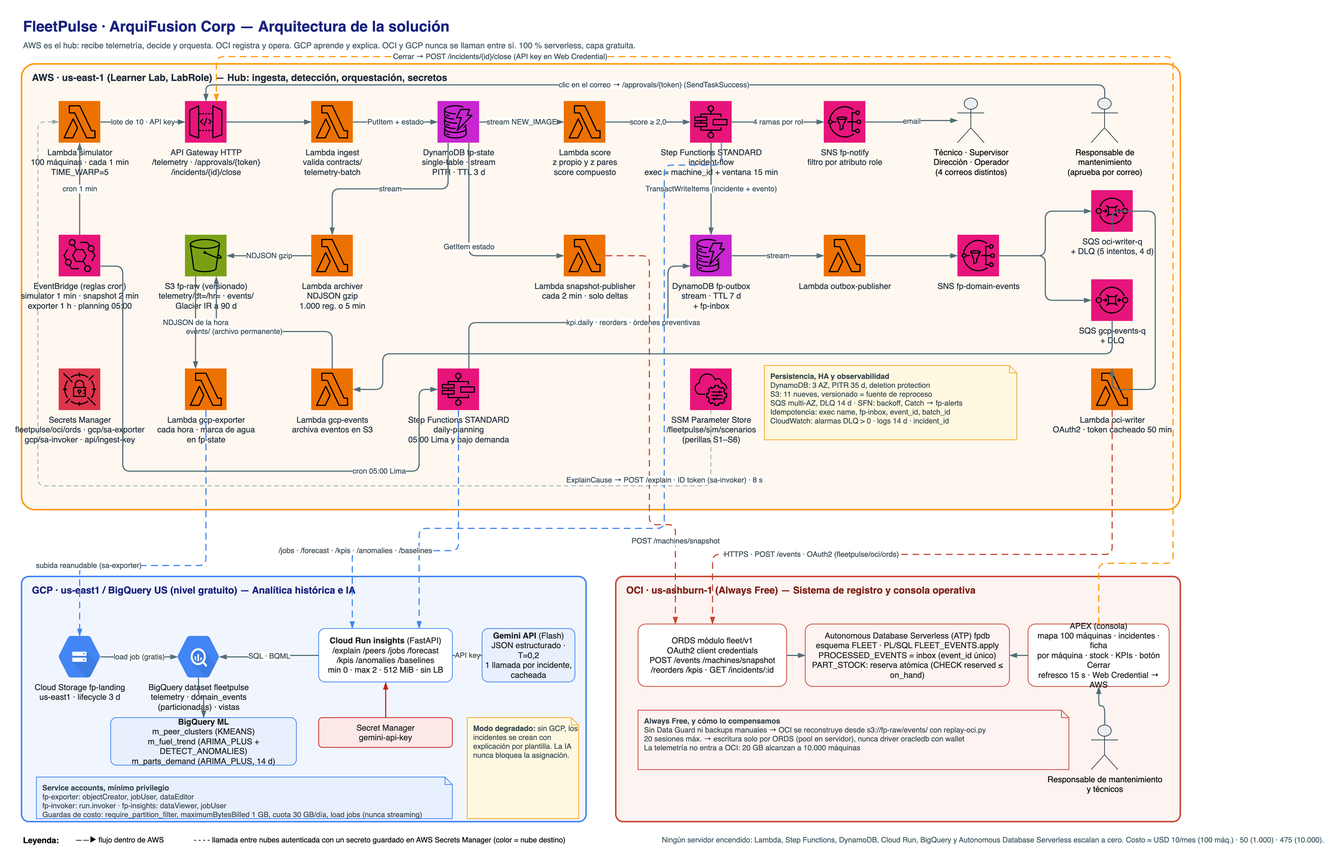
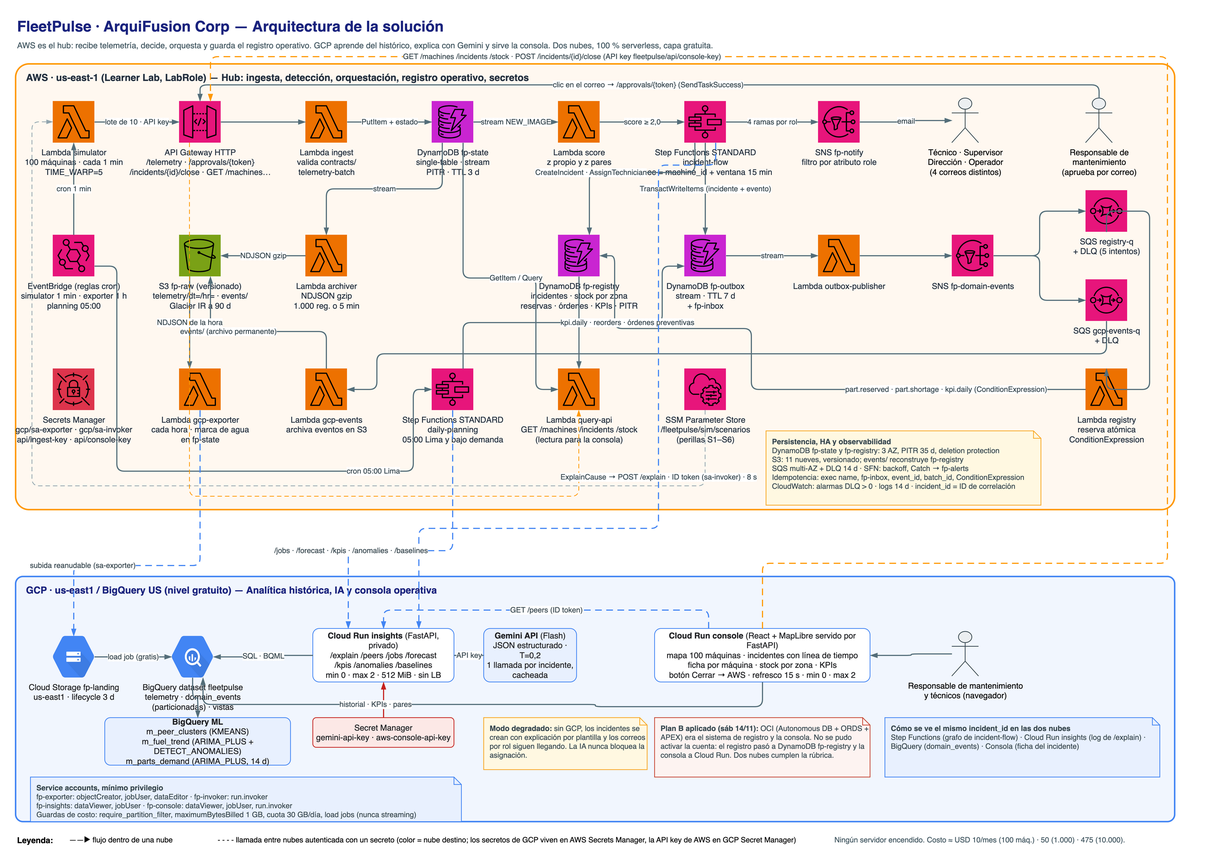
feat: plan B without OCI — registry in DynamoDB, console in Cloud Run
OCI account could not be created (Sat 14/11 21:30). Per the design doc's
plan B: FLEET schema becomes DynamoDB fp-registry (aws/registry, Alex)
with atomic part reservation; APEX becomes Cloud Run console (gcp/console,
React + MapLibre served by FastAPI as BFF). Removes oci/, oci scripts and
secret; updates CODEOWNERS, README, CLAUDE.md, contracts, CI matrix,
architecture diagram and docs.

diff --git a/scripts/seed-registry.py b/scripts/seed-registry.py
@@ -1,0 +1,8 @@
+#!/usr/bin/env python3
+"""Carga contracts/ids.yaml en DynamoDB fp-registry y fp-state (maquinas, tecnicos, repuestos, BOM, stock).
+
+Owner: Alex (T10). Idempotente: PutItem por clave.
+"""
+import sys
+
+sys.exit("TODO T10: implementar seed-registry.py")

diff --git a/docs/architecture.md b/docs/architecture.md
@@ -10,15 +10,16 @@ drawio -x -f png -s 2 -b 20 -o docs/architecture.png docs/architecture.drawio
 
 ## En una frase
 
-AWS es el hub: recibe la telemetría, detecta anomalías y orquesta incidentes. OCI es el sistema de registro (incidentes, repuestos, stock, órdenes) y la consola en APEX. GCP guarda el histórico, entrena los modelos en BigQuery ML y explica cada incidente con Gemini. OCI y GCP nunca se hablan entre sí, así que los secretos viven en un solo lugar (AWS Secrets Manager) y hay un solo camino que vigilar.
+AWS es el hub: recibe la telemetría, detecta anomalías, orquesta incidentes y guarda el registro operativo (incidentes, stock, reservas, órdenes). GCP guarda el histórico, entrena los modelos en BigQuery ML, explica cada incidente con Gemini y sirve la consola operativa. Dos nubes, un solo lugar para los secretos de GCP (AWS Secrets Manager) y un solo camino entre nubes que vigilar.
+
+> **Plan B aplicado el sáb 14/11 21:30.** El diseño original tenía OCI (Autonomous Database + ORDS + APEX) como sistema de registro y consola. Ninguno del equipo pudo crear la cuenta, así que se ejecutó el plan B previsto: el esquema relacional pasó a DynamoDB `fp-registry` y la consola a Cloud Run. Con dos nubes se sigue cumpliendo la rúbrica.
 
 ## Por qué ninguna nube es decorativa
 
 | Nube | Lo que solo ella hace | Si se apaga |
 |---|---|---|
-| AWS | Ve la telemetría en tiempo real y actúa: abre incidentes, asigna técnicos, notifica | Nada entra ni se decide |
-| OCI | Transacciones y joins que DynamoDB maneja mal: stock por ubicación con reservas atómicas, órdenes, BOM, historial máquina–incidente–repuesto; consola del responsable de mantenimiento | Los eventos esperan en SQS (4 días) y se aplican al volver; OCI se reconstruye desde S3 |
-| GCP | Memoria larga: 30 días de historia, clústeres de pares, pronósticos, anomalías de combustible, IA generativa | AWS sigue detectando; los incidentes salen con explicación por plantilla |
+| AWS | Ve la telemetría en tiempo real y actúa: abre incidentes, asigna técnicos, reserva repuestos, notifica. Es el único que cambia el estado de un incidente | Nada entra ni se decide |
+| GCP | Memoria larga: 30 días de historia, clústeres de pares, pronósticos, anomalías de combustible, IA generativa; y la consola que usan el responsable de mantenimiento y los técnicos | AWS sigue detectando y notificando por correo; los incidentes salen con explicación por plantilla y la consola no está disponible |
 
 ## Flujo de eventos
 
@@ -26,13 +27,13 @@ AWS es el hub: recibe la telemetría, detecta anomalías y orquesta incidentes. 
 2. `ingest` valida contra `contracts/telemetry-batch.schema.json`, escribe la lectura y actualiza estado y posición en `fp-state`.
 3. El stream de `fp-state` alimenta a `score` (anomalías) y `archiver` (NDJSON gzip en `s3://fp-raw/telemetry/dt=/hr=/`).
 4. Con score ≥ 2,0, `score` inicia `incident-flow` con nombre `<machine_id>-<ventana 15 min>`: Step Functions rechaza nombres repetidos, así que no hay incidentes duplicados.
-5. `incident-flow` clasifica, correlaciona por zona, crea el incidente y escribe en `fp-outbox` (misma transacción), pide la explicación a Cloud Run `/explain`, rankea técnicos, espera aprobación si corresponde, asigna, notifica por rol y reserva repuestos.
-6. El stream de `fp-outbox` publica en SNS `fp-domain-events` → `oci-writer-q` y `gcp-events-q`, cada una con DLQ.
-7. `oci-writer` envía cada evento a ORDS `POST /events`; `PROCESSED_EVENTS` rechaza `event_id` repetidos.
-8. `snapshot-publisher` (cada 2 min) manda a OCI las máquinas que cambiaron; eso alimenta el mapa de APEX.
-9. `gcp-exporter` (cada hora) sube los NDJSON a `gs://fp-landing/` y lanza un load job a BigQuery. Marca de agua en `fp-state`.
-10. `daily-planning` (05:00 Lima) pide a Cloud Run refrescar modelos, pronosticar repuestos y calcular KPIs; los resultados vuelven por el outbox a OCI.
-11. El correo de aprobación llama a `POST /approvals/{token}` (`SendTaskSuccess`); el botón Cerrar de APEX llama a `POST /incidents/{id}/close`. AWS es el único que cambia el estado de un incidente.
+5. `incident-flow` clasifica, correlaciona por zona, crea el incidente en `fp-registry` y el evento en `fp-outbox` (misma transacción), pide la explicación a Cloud Run `/explain`, rankea técnicos, espera aprobación si corresponde, asigna, notifica por rol y pide la reserva de repuestos.
+6. El stream de `fp-outbox` publica en SNS `fp-domain-events` → `registry-q` y `gcp-events-q`, cada una con DLQ.
+7. La Lambda `registry` aplica los eventos en `fp-registry`: la reserva es un `UpdateItem` con `ConditionExpression on_hand - reserved >= :qty`; si falla prueba la zona más cercana y, si no hay, escribe un pedido sugerido y emite `part.shortage`. `fp-inbox` rechaza `event_id` repetidos.
+8. `gcp-events` archiva cada evento en `s3://fp-raw/events/`; `gcp-exporter` (cada hora) sube los NDJSON a `gs://fp-landing/` y lanza un load job a BigQuery. Marca de agua en `fp-state`.
+9. `daily-planning` (05:00 Lima) pide a Cloud Run refrescar modelos, pronosticar repuestos y calcular KPIs; los resultados vuelven por el outbox a `fp-registry`.
+10. La consola (Cloud Run `console`: React + MapLibre compilado a estáticos y servido por FastAPI) lee el estado en vivo a través de su backend `/api/*`, que llama a la API de lectura de AWS (`GET /machines`, `/incidents`, `/stock`, API key en Secret Manager) y a BigQuery para historial y KPIs; refresca cada 15 s.
+11. El correo de aprobación llama a `POST /approvals/{token}` (`SendTaskSuccess`); el botón Cerrar de la consola llama, vía el backend, a `POST /incidents/{id}/close`. AWS es el único que cambia el estado de un incidente.
 
 ### incident-flow (Standard)
 
@@ -49,7 +50,7 @@ flowchart TD
     G -- inmediato --> I
     H --> I[AssignTechnician<br/>incident.assigned]
     I --> J[NotifyByRole · Parallel SNS<br/>técnico · supervisor · dirección · operador]
-    J --> K[ReserveParts<br/>part.reserve.requested → OCI atómico]
+    J --> K[ReserveParts<br/>part.reserve.requested → fp-registry atómico]
     K --> Z
 ```
 
@@ -60,9 +61,9 @@ flowchart LR
     A[ExportPending<br/>gcp-exporter] --> B[RefreshModels<br/>/jobs/refresh]
     B --> C{WaitForModels<br/>Wait 60 s → /jobs/status<br/>máx. 20 vueltas}
     C -- listos --> D[Analyze · Parallel<br/>preventivo · /forecast/parts<br/>/kpis/daily · /anomalies/fuel]
-    D --> E[ComputeReorders<br/>POST /reorders en OCI]
+    D --> E[ComputeReorders<br/>pronóstico 14 d vs stock en fp-registry]
     E --> F[UpdateBaselines<br/>μ, σ, clúster → fp-state]
-    F --> G[Publish al outbox<br/>maintenance.order.suggested · kpi.daily · fuel.anomaly]
+    F --> G[Publish al outbox → fp-registry y BigQuery<br/>maintenance.order.suggested · kpi.daily · fuel.anomaly]
 ```
 
 Ambas: reintento con backoff exponencial (3 intentos, base 2 s) en cada Lambda, `Catch` global que publica en `fp-alerts`, logs con `includeExecutionData`. Standard y no Express porque Express no soporta `waitForTaskToken` ni guarda el historial visual.
@@ -71,25 +72,25 @@ Ambas: reintento con backoff exponencial (3 intentos, base 2 s) en cada Lambda, 
 
 | Origen → destino | Protocolo | Autenticación | Secreto (Secrets Manager) | Si falla |
 |---|---|---|---|---|
-| AWS → OCI (ORDS) | HTTPS REST JSON | OAuth2 client credentials, token cacheado 50 min | `fleetpulse/oci/ords` | SQS reintenta (visibilidad 60 s); 5 intentos → DLQ; retención 4 días |
 | AWS → Cloud Storage y BigQuery | Subida reanudable + load job | Llave JSON de la SA `fp-exporter` | `fleetpulse/gcp/sa-exporter` | Marca de agua por hora; dedupe por `batch_id` |
 | AWS → Cloud Run | HTTPS | ID token firmado por la SA `fp-invoker` (`roles/run.invoker`) | `fleetpulse/gcp/sa-invoker` | Timeout 8 s → explicación por plantilla; nunca bloquea |
 | Cloud Run → Gemini | HTTPS | API key | GCP Secret Manager `gemini-api-key` | 1 reintento; 429 → plantilla |
 | Cloud Run → BigQuery | Cliente oficial | SA de ejecución `fp-insights` (dataViewer, jobUser) | — | `maximumBytesBilled` 1 GB |
-| Correo / APEX → AWS | HTTPS a API Gateway | Task token de un solo uso / API key en Web Credential | `fleetpulse/api/ingest-key` | Token expira con el paso (30 min) |
+| Consola (Cloud Run, backend) → AWS | HTTPS a API Gateway | API key (`fleetpulse/api/console-key`), copia en GCP Secret Manager `aws-console-api-key`; nunca llega al navegador | `fleetpulse/api/console-key` | La consola muestra el último estado leído y avisa que está desactualizado |
+| Correo → AWS | HTTPS a API Gateway | Task token de un solo uso en la URL | — | Token expira con el paso (30 min) |
 
-Los cuatro secretos se leen en el arranque en frío con caché de 5 minutos. Nunca van en variables de entorno, en el repo ni en los logs. `scripts/push-secrets.sh` los carga desde las salidas de Terraform y del `OAUTH.CREATE_CLIENT` de ORDS.
+Los secretos se leen en el arranque en frío con caché de 5 minutos. Nunca van en variables de entorno, en el repo ni en los logs. `scripts/push-secrets.sh` los carga desde las salidas de Terraform.
 
 ## Modelo de datos: un dueño por dato
 
 | Dato | Dueño | Por qué ahí |
 |---|---|---|
 | Estado actual, últimas lecturas (3 d), scores, incidentes activos, técnicos, baselines, marca de agua | DynamoDB `fp-state` (single-table, GSI1 por zona) | Acceso por clave, stream para reaccionar, multi-AZ |
-| Telemetría cruda y eventos de dominio | S3 `fp-raw` (versionado) | Fuente de verdad para reprocesar hacia OCI o GCP |
-| Incidentes, eventos, órdenes, repuestos, stock, reservas, KPIs | Autonomous Database, esquema `FLEET` | Transacciones (`reserved ≤ on_hand`), joins, APEX |
+| Telemetría cruda y eventos de dominio | S3 `fp-raw` (versionado) | Fuente de verdad para reprocesar hacia `fp-registry` o BigQuery |
+| Incidentes, eventos de incidente, órdenes, repuestos, BOM, stock por zona, reservas, pedidos sugeridos, KPIs | DynamoDB `fp-registry` (single-table, PITR, stream) | Reserva atómica con `ConditionExpression`; lectura por clave para la consola; los joins pesados (historial, KPIs) se hacen en BigQuery |
 | Histórico completo, vistas, modelos | BigQuery `fleetpulse` (particionado por día, clúster por máquina y zona) | Entrena sin mover datos; cargas gratis |
 
-La telemetría nunca entra a OCI: 20 GB de Always Free alcanzan incluso con 10.000 máquinas.
+La telemetría nunca entra a `fp-registry`: el registro guarda decisiones, no lecturas.
 
 ## Buenas prácticas por nube
 
@@ -98,37 +99,28 @@ La telemetría nunca entra a OCI: 20 GB de Always Free alcanzan incluso con 10.0
 | Pilar | Decisiones | Dónde se ve |
 |---|---|---|
 | Excelencia operativa | Todo como código (Serverless Framework, Terraform, SQL versionado). CI con gitleaks, lint, tests, `sls package`, `terraform validate` y validación de contratos JSON Schema. `incident_id` y `batch_id` como ID de correlación en los logs de las 3 nubes. Alarmas por DLQ > 0 y ejecuciones fallidas | `.github/workflows/`, `contracts/`, CloudWatch |
-| Seguridad | Secretos de OCI y GCP en Secrets Manager (cifrados con `aws/secretsmanager`), caché 5 min, nunca en env ni logs. API keys y throttling en API Gateway. Cifrado en reposo en las 3 nubes y TLS en tránsito. Ningún bucket público. Task token de un solo uso para aprobaciones | Secrets Manager, API Gateway |
-| Fiabilidad | Outbox + SNS + SQS + DLQ entre nubes: una caída remota no tumba el flujo. Idempotencia en cada salto: nombre de ejecución, `fp-inbox`, `PROCESSED_EVENTS`, `batch_id`. Timeouts con alternativa (Gemini → plantilla). Reproceso desde S3 (`replay-oci.py`). Modo degradado documentado por nube | `aws/integrations/`, `aws/shared/lib/` |
-| Eficiencia de rendimiento | Ingesta por lotes de 10. Step Functions solo por incidente, no por lectura. Lambda arm64. DynamoDB single-table con GSI por zona y TTL. ORDS agrupa conexiones. BigQuery particionado y en clústeres. Cloud Run con concurrencia 80 | Tablas, `serverless.yml` |
-| Optimización de costos | Todo escala a cero. DynamoDB on-demand, TTL 3 d en lecturas. S3 a Glacier IR a 90 d. Logs 14 d. Niveles gratuitos de OCI y GCP; sin load balancer; load jobs y no streaming; `require_partition_filter`, `maximumBytesBilled`, cuota diaria de 30 GB. Simulador apagado fuera de pruebas | Sección de costos del README |
+| Seguridad | Secretos de GCP y API keys en Secrets Manager (cifrados con `aws/secretsmanager`), caché 5 min, nunca en env ni logs. API keys y throttling en API Gateway. Cifrado en reposo en las dos nubes y TLS en tránsito. Ningún bucket público. Task token de un solo uso para aprobaciones | Secrets Manager, API Gateway |
+| Fiabilidad | Outbox + SNS + SQS + DLQ entre nubes: una caída remota no tumba el flujo. Idempotencia en cada salto: nombre de ejecución, `fp-inbox`, `batch_id`, `ConditionExpression`. Timeouts con alternativa (Gemini → plantilla). `fp-registry` con PITR y reconstruible desde `s3://fp-raw/events/`. Modo degradado documentado por nube | `aws/integrations/`, `aws/registry/`, `aws/shared/lib/` |
+| Eficiencia de rendimiento | Ingesta por lotes de 10. Step Functions solo por incidente, no por lectura. Lambda arm64. DynamoDB single-table con GSI por zona y TTL. BigQuery particionado y en clústeres. Cloud Run con concurrencia 80 | Tablas, `serverless.yml` |
+| Optimización de costos | Todo escala a cero. DynamoDB on-demand, TTL 3 d en lecturas. S3 a Glacier IR a 90 d. Logs 14 d. Nivel gratuito de GCP; sin load balancer; load jobs y no streaming; `require_partition_filter`, `maximumBytesBilled`, cuota diaria de 30 GB. Simulador apagado fuera de pruebas | Sección de costos del README |
 | Sostenibilidad | Solo se procesa lo que cambia (streams, snapshot de deltas). NDJSON comprimido. arm64. Ningún recurso encendido en reposo | Lifecycle de S3, `archiver` |
 
 ### Google Cloud Architecture Framework
 
 | Pilar | Decisiones |
 |---|---|
-| Diseño del sistema | Región única `us-east1` (Cloud Storage gratis), BigQuery multirregión US. Un solo servicio Cloud Run con varios endpoints: menos superficie, menos arranques en frío |
+| Diseño del sistema | Región única `us-east1` (Cloud Storage gratis), BigQuery multirregión US. Dos servicios Cloud Run con responsabilidades separadas: `insights` (IA y analítica, privado) y `console` (React servido por FastAPI, que también es el backend de la UI) |
 | Excelencia operativa | Terraform para APIs, bucket, dataset, tablas, SAs, Secret Manager, Artifact Registry (política de 2 imágenes). Vistas y modelos como SQL versionado en `gcp/bq/`. `/health` para el smoke test |
-| Seguridad, privacidad y cumplimiento | Tres service accounts con un rol cada una (`fp-exporter`, `fp-invoker`, `fp-insights`). Cloud Run no público: requiere ID token con `roles/run.invoker`. Llave de Gemini en Secret Manager, no en la imagen. Solo datos simulados hacia Gemini |
-| Fiabilidad | Cloud Run sin estado y multizona. BigQuery con time travel 7 d y recarga desde S3. Load jobs idempotentes por `batch_id`. Degradación: si `/explain` falla, AWS sigue |
+| Seguridad, privacidad y cumplimiento | Service accounts con un rol cada una (`fp-exporter`, `fp-invoker`, `fp-insights`, `fp-console`). `insights` no público: requiere ID token con `roles/run.invoker`. Llave de Gemini y API key de AWS en Secret Manager, no en la imagen ni en el bundle de React. Solo datos simulados hacia Gemini |
+| Fiabilidad | Cloud Run sin estado y multizona. BigQuery con time travel 7 d y recarga desde S3. Load jobs idempotentes por `batch_id`. Degradación: si `/explain` falla, AWS sigue; si la consola cae, los correos por rol siguen llegando |
 | Optimización de costos | Capa gratuita permanente: 1 TB de consultas y 10 GB al mes, 2 M de solicitudes de Cloud Run, 5 GB de Storage. Guardas duras: cuota diaria de BigQuery, `maximumBytesBilled`, `require_partition_filter`, lifecycle 3 d en `fp-landing`, Cloud Run min 0 / max 2 / 512 MiB / CPU solo durante la solicitud. Prohibido: Vertex AI, Compute Engine, Cloud SQL, load balancers, Cloud NAT, streaming inserts |
 | Optimización de rendimiento | Particiones por `DATE(ts)` y clústeres por `machine_id, zone`. Modelos sobre agregados diarios (megabytes). Una llamada a Gemini por incidente, cacheada; salida estructurada con `response_schema` para no reintentar por formato |
-
-### OCI Best Practices Framework
-
-| Pilar | Decisiones |
-|---|---|
-| Seguridad y cumplimiento | Escritura solo por ORDS con OAuth2 client credentials; ningún wallet mTLS sale de OCI. Usuario de esquema `FLEET` separado de `ADMIN`. APEX con autenticación de workspace y Web Credential para llamar a AWS. Cifrado en reposo por defecto (TDE) y TLS |
-| Fiabilidad y resiliencia | Always Free no tiene Data Guard ni backups manuales: la resiliencia se defiende con el outbox de AWS y `replay-oci.py` desde `s3://fp-raw/events/`. `PROCESSED_EVENTS` hace idempotente cualquier reintento. La base se detiene tras 7 días sin uso: `snapshot-publisher` la mantiene activa durante la hackathon |
-| Rendimiento y costo | Autonomous Database Serverless con `is_free_tier = true` (20 GB, 1 OCPU, ORDS y APEX incluidos). Límite de 20 sesiones → pool de conexiones en ORDS, nunca driver desde Lambda. Reserva de stock en un solo `UPDATE` condicional. Sin Compute ni Object Storage: costo USD 0 |
-| Eficiencia operativa | Terraform para la base; esquema, paquete PL/SQL, ORDS, OAuth y seed como SQL numerado en `oci/sql/`; export de APEX en `oci/apex/f100.sql`. Todo reproducible con `scripts/oci-sql.sh` |
 
 ## Lo que no cumplimos, y se dice en el video
 
 - **Sin autenticación real de usuarios** (Cognito o IDCS). APEX usa el login de su workspace y los roles se simulan. En producción: Cognito con grupos por rol y APEX federado.
 - **Sin mínimo privilegio en AWS.** El Learner Lab solo ofrece `LabRole`. En producción: un rol por función con la política exacta.
-- **OCI Always Free no tiene alta disponibilidad propia.** La compensamos con el reproceso desde S3. En producción: Autonomous Database de pago con Data Guard (≈ USD 500/mes con 2 ECPU, a validar).
+- **Solo dos nubes.** OCI estaba diseñada como sistema de registro relacional; al no poder activarse, el registro vive en DynamoDB. Las consultas con joins (historial, KPIs) se resuelven en BigQuery en lugar de SQL transaccional.
 - **Cada nube corre en una sola región.** El crédito y el Learner Lab no justifican multi-región; el diseño no lo impide.
 
 ## Costo por escala (on-demand, sin descuentos)
@@ -137,4 +129,4 @@ La telemetría nunca entra a OCI: 20 GB de Always Free alcanzan incluso con 10.0
 |---|---|---|---|
 | USD/mes | ~10 | ~50 | ~475 |
 
-Dominan API Gateway, DynamoDB y Lambda. Con lotes cada 15 minutos en lugar de 5, esos tres rubros bajan a cerca de un tercio. OCI y GCP quedan en USD 0 durante la hackathon.
+Dominan API Gateway, DynamoDB y Lambda. Con lotes cada 15 minutos en lugar de 5, esos tres rubros bajan a cerca de un tercio. GCP queda en USD 0 durante la hackathon.

diff --git a/CLAUDE.md b/CLAUDE.md
@@ -5,23 +5,25 @@ Eres ingeniero senior de cloud del Grupo 19 “motosierra” (CS2032 Cloud Compu
 Video > 5:00; menos de 2 nubes (Vercel no cuenta); entregar un informe (no escribas documentación larga; el README es mínimo). Los secretos de otras nubes van en AWS Secrets Manager.
 
 ## Arquitectura fija (no la reabras sin que te lo pidan)
-- AWS es el hub. OCI y GCP nunca se llaman entre sí.
-- AWS (us-east-1, Learner Lab): API Gateway HTTP → Lambda `ingest` → DynamoDB `fp-state` (single-table, stream, PITR) → `score` y `archiver` (S3 `fp-raw`). `incident-flow` y `daily-planning` son Step Functions STANDARD (Express no soporta waitForTaskToken). Outbox `fp-outbox` → SNS `fp-domain-events` → SQS `oci-writer-q` y `gcp-events-q` con DLQ. Inbox `fp-inbox` para idempotencia.
-- OCI (us-ashburn-1, Always Free): Autonomous Database ATP, esquema FLEET, escritura SOLO por ORDS (módulo fleet/v1, OAuth2 client credentials); paquete PL/SQL FLEET_EVENTS.apply; PROCESSED_EVENTS como inbox; APEX como consola. Nada de Compute ni del driver oracledb con wallet.
+- Dos nubes: AWS y GCP. OCI salió el sáb 14/11 (no se pudo crear la cuenta); no propongas servicios de OCI.
+- AWS es el hub y el sistema de registro. GCP es analítica, IA y consola.
+- AWS (us-east-1, Learner Lab): API Gateway HTTP → Lambda `ingest` → DynamoDB `fp-state` (single-table, stream, PITR) → `score` y `archiver` (S3 `fp-raw`). `incident-flow` y `daily-planning` son Step Functions STANDARD (Express no soporta waitForTaskToken). Outbox `fp-outbox` → SNS `fp-domain-events` → SQS `gcp-events-q` (y `registry-q`) con DLQ. Inbox `fp-inbox` para idempotencia.
+- Registro operativo en AWS: DynamoDB `fp-registry` (incidentes, stock por zona con reserva atómica por ConditionExpression, reservas, órdenes, pedidos sugeridos, KPIs). API de lectura `GET /machines|/incidents|/stock` detrás de API Gateway con API key (`aws/registry/`).
+- Consola en GCP: Cloud Run `console` (`gcp/console/`): React + Vite + MapLibre compilado a estáticos y servido por FastAPI, que es también el BFF `/api/*` (proxy a la API de AWS con la API key en Secret Manager, consultas a BigQuery). La API key nunca llega al navegador. Botón Cerrar llama a `POST /incidents/{id}/close` vía el BFF.
 - GCP (us-east1, BigQuery en US): Cloud Storage `fp-landing` → load jobs (nunca streaming) a `fleetpulse.telemetry` y `domain_events`; BigQuery ML (KMEANS m_peer_clusters, ARIMA_PLUS m_fuel_trend y m_parts_demand); Cloud Run `insights` (FastAPI) con Gemini Flash en salida JSON estructurada. Sin load balancer.
 - Los contratos de eventos están en `contracts/*.schema.json`. Si un cambio los rompe, dilo y propón la versión nueva; no los cambies en silencio.
 
 ## Restricciones del entorno
 - Learner Lab: solo LabRole (`provider.iam.role: arn:aws:iam::${aws:accountId}:role/LabRole`). Nunca generes roles, políticas, usuarios IAM ni `iamRoleStatements`. Nada de EventBridge Scheduler, Schema Registry ni Pipes: los crons son `schedule` (reglas de EventBridge).
-- Niveles gratuitos: OCI Always Free (20 sesiones, sin Data Guard); BigQuery 1 TB de consultas y 10 GB al mes (usa `require_partition_filter` y `maximumBytesBilled`); Cloud Run 2 M de solicitudes; Gemini con límite por minuto (cachea por incidente). Todo debe quedar en capa gratuita: si algo cuesta dinero, no lo escribas y propón la alternativa gratuita. Nunca Vertex AI, Compute, load balancers, inserciones streaming en BigQuery ni upgrade de cuentas.
-- 100 % serverless: prohibido EC2, Compute de OCI, Compute Engine, RDS y contenedores siempre encendidos.
+- Niveles gratuitos: BigQuery 1 TB de consultas y 10 GB al mes (usa `require_partition_filter` y `maximumBytesBilled`); Cloud Run 2 M de solicitudes; Gemini con límite por minuto (cachea por incidente). Todo debe quedar en capa gratuita: si algo cuesta dinero, no lo escribas y propón la alternativa gratuita. Nunca Vertex AI, Compute, load balancers, inserciones streaming en BigQuery ni upgrade de cuentas.
+- 100 % serverless: prohibido EC2, Compute Engine, RDS y contenedores siempre encendidos.
 
 ## Stack y estilo
-- Python 3.12 arm64 con Serverless Framework y la plantilla del equipo (api/, consumidores/, lib/, tests/, outbox, inbox). Terraform solo para gcp/ y oci/. SQL versionado en oci/sql y gcp/bq.
-- Cada carpeta tiene dueño (CODEOWNERS): Benjamin = aws/ (salvo integrations), Alex = oci/, simulator/, aws/integrations/oci-*, Fabricio = gcp/, aws/integrations/gcp-*. Toca solo las carpetas de la tarea.
+- Python 3.12 arm64 con Serverless Framework y la plantilla del equipo (api/, consumidores/, lib/, tests/, outbox, inbox). Terraform solo para gcp/. SQL versionado en gcp/bq.
+- Cada carpeta tiene dueño (CODEOWNERS): Benjamin = aws/ (salvo registry e integrations), Alex = aws/registry/, gcp/console/, simulator/, Fabricio = gcp/ (resto), aws/integrations/gcp-*. Toca solo las carpetas de la tarea.
 - Toda llamada entre nubes: timeout explícito, reintento por cola, idempotencia por event_id y secreto leído de Secrets Manager con caché de 5 min. Nunca credenciales en variables de entorno, código ni logs.
 - Loguea siempre `incident_id` o `batch_id` como ID de correlación.
-- Conventional Commits con scope de nube: feat(aws), fix(oci), chore(gcp).
+- Conventional Commits con scope de nube: feat(aws), fix(gcp), chore(sim).
 
 ## Cómo responder
 - Código completo y ejecutable, en archivos con su ruta en el repo, con tests mínimos. Sin pseudocódigo.

diff --git a/README.md b/README.md
@@ -1,5 +1,5 @@
 # FleetPulse — ArquiFusion Corp
-Telemetría de maquinaria pesada → decisiones de mantenimiento, técnicos y repuestos. 100 % serverless en AWS + OCI + GCP.
+Telemetría de maquinaria pesada → decisiones de mantenimiento, técnicos y repuestos. 100 % serverless en AWS + GCP.
 
 ▶ Video (4:30): _pendiente_
 
@@ -7,16 +7,15 @@ Telemetría de maquinaria pesada → decisiones de mantenimiento, técnicos y re
 
 | Nube | Rol | Servicios |
 |---|---|---|
-| AWS | Ingesta, detección, orquestación, secretos | API Gateway, Lambda, DynamoDB, S3, SQS, SNS, Step Functions, Secrets Manager |
-| OCI | Sistema de registro y consola operativa | Autonomous Database, ORDS, APEX |
-| GCP | Analítica histórica e IA | Cloud Storage, BigQuery, BigQuery ML, Cloud Run, Gemini |
+| AWS | Ingesta, detección, orquestación, registro operativo, secretos | API Gateway, Lambda, DynamoDB, S3, SQS, SNS, Step Functions, Secrets Manager |
+| GCP | Analítica histórica, IA y consola operativa | Cloud Storage, BigQuery, BigQuery ML, Cloud Run, Gemini, Secret Manager |
 
 ## Desplegar
 1. `scripts/lab-creds.sh`
-2. `terraform -chdir=gcp/terraform apply` y `terraform -chdir=oci/terraform apply`
-3. `scripts/oci-sql.sh` (esquema, ORDS, OAuth, APEX)
-4. `scripts/push-secrets.sh`
-5. `cd aws && serverless deploy`
+2. `terraform -chdir=gcp/terraform apply`
+3. `scripts/push-secrets.sh`
+4. `cd aws && serverless deploy`
+5. `scripts/seed-registry.py` (catálogo de `contracts/ids.yaml`)
 6. `scripts/smoke.sh`
 
 ## Costo mensual estimado
@@ -29,5 +28,5 @@ Equipo: Benjamin · Alex · Fabricio
 ## Cómo trabajamos (hackathon)
 - Push directo a `main`. Sin aprobaciones ni PR obligatorios: nadie espera a nadie.
 - CODEOWNERS es solo informativo: dice a quién preguntar, no bloquea.
-- Commits `feat(aws): ...`, `fix(oci): ...`, `chore(gcp): ...`. Antes de pushear: `git pull --rebase`.
+- Commits `feat(aws): ...`, `fix(sim): ...`, `chore(gcp): ...`. Antes de pushear: `git pull --rebase`.
 - Las credenciales del Learner Lab las renueva Benjamin con `scripts/lab-creds.sh --gh`; el deploy de AWS corre solo al tocar `aws/` en `main`.
